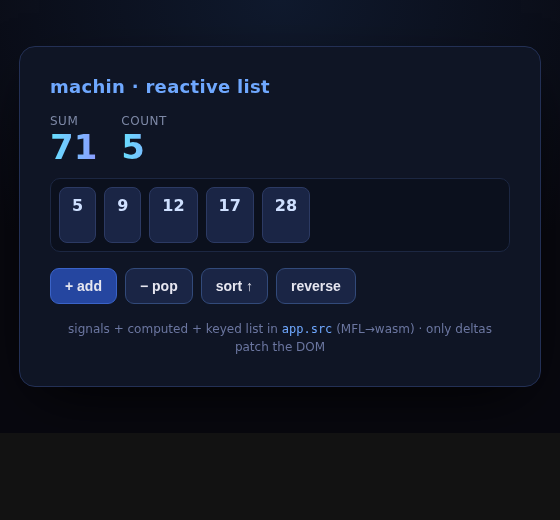
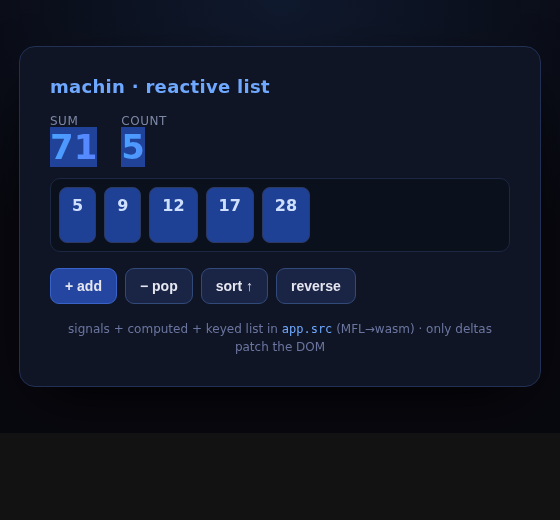
templating: the component generates its own markup (mount/slot/list)
Use the new reactive templating layer (v0.55.0): start() declares the
stats + list markup with slot()/list() and mounts it, so index.html is
just <div id=app> + buttons + host glue. The component owns markup, state,
and reactivity in one place. Same on-screen result, less hand-wiring.

Changed region(s): [[0.0911, 0.2462, 0.5768, 0.4923]]

diff --git a/index.html b/index.html
@@ -21,12 +21,12 @@
   .stat .v { font-size: 34px; font-weight: 800; line-height: 1;
     background: linear-gradient(90deg, #66e0ff, #8b9bff); -webkit-background-clip: text;
     background-clip: text; color: transparent; }
-  .items { list-style: none; margin: 0 0 16px; padding: 8px; min-height: 56px;
+  #items { list-style: none; margin: 0 0 16px; padding: 8px; min-height: 56px;
     display: flex; flex-wrap: wrap; gap: 8px; background: #0b101d;
     border: 1px solid #1c2742; border-radius: 10px; }
-  .items li { padding: 6px 12px; border-radius: 8px; background: #1a2545;
-    border: 1px solid #2c3a63; font-weight: 700; }
-  .items li b { color: #cfe0ff; font-weight: 800; }
+  #items li { padding: 6px 12px; border-radius: 8px; background: #1a2545;
+    border: 1px solid #2c3a63; font-weight: 700; list-style: none; }
+  #items li b { color: #cfe0ff; font-weight: 800; }
   .row { display: flex; gap: 8px; flex-wrap: wrap; }
   button { padding: 9px 14px; font-size: 14px; font-weight: 700; cursor: pointer;
     border-radius: 9px; border: 1px solid #324a7a; background: #1a2545; color: #e6e6f0; }
@@ -41,11 +41,8 @@
 <body>
   <main class="card">
     <h1>machin · reactive list</h1>
-    <div class="stats">
-      <div class="stat"><div class="k">sum</div><div class="v" data-s="sum">0</div></div>
-      <div class="stat"><div class="k">count</div><div class="v" data-s="count">0</div></div>
-    </div>
-    <ul id="items" class="items"></ul>
+    <!-- the component renders its own markup into #app via mount() -->
+    <div id="app"></div>
     <div class="row">
       <button id="add" class="primary">+ add</button>
       <button id="pop">− pop</button>
@@ -64,6 +61,8 @@
 
   const imports = {
     env: {
+      // mount → the component's initial HTML (set once)
+      dom_mount: (r, h) => { document.getElementById(cstr(r)).innerHTML = cstr(h); },
       // bind → set a text slot
       dom_patch: (s, v) => { const el = document.querySelector(`[data-s="${cstr(s)}"]`); if (el) { el.textContent = cstr(v); flash(el); } },
       // each → keyed list ops (the patch list): insert / remove / reorder

diff --git a/README.md b/README.md
@@ -17,14 +17,16 @@ replacement, no virtual-DOM diff. It's the Solid/Leptos model, in MFL.
   notifies if the value changed).
 - **`computed(func(){ return … })`** is a memoized derived signal — here, the sum
   of the list. It recomputes only when a signal it reads changes.
-- **`bind(slot, func(){ return str(…) })`** patches a DOM text slot on change.
-- **`each(container, keys, item)`** is **keyed list reconciliation**: `keys()`
-  returns the ordered keys as a CSV string, `item(key)` renders an item once. On a
-  change it emits only `list_insert` (new), `list_remove` (gone), and `list_order`
-  (reorder).
+- **`slot(name, compute)`** returns the markup for a reactive text node and wires
+  its binding; **`list(name, keys, item)`** does the same for a keyed list (`keys()`
+  returns the ordered keys as a CSV string, `item(key)` renders an item once).
+- **`mount(root, html)`** sets the root's HTML once, then activates the queued
+  bindings/lists. So the component declares its **markup and reactivity together**
+  — no hand-written HTML skeleton, no manual `data-s` wiring.
 
 Every reaction auto-tracks the signals it reads, so a change recomputes only the
-affected reactions, and only changed text/keys hit the DOM.
+affected reactions, and only changed text/keys hit the DOM. A keyed list emits only
+`list_insert` (new) / `list_remove` (gone) / `list_order` (reorder).
 
 ## What "fine-grained" buys you (verified)
 
@@ -40,6 +42,9 @@ Sorting a list of N items moves N DOM nodes and recomputes nothing else; the
 
 ## The component (`app.src`)
 
+The component declares its markup and reactive slots together, then mounts it —
+`index.html` is just `<div id="app"></div>`:
+
 ```go
 export func start() {
     ver = signal(0)
@@ -48,11 +53,12 @@ export func start() {
         while i < n { s = s + vals[i]  i = i + 1 }
         return s
     })
-    bind("sum",   func() { return str(get(sum_sig)) })
-    bind("count", func() { get(ver)  return str(n) })
-    each("items",                         // keyed list
-        func() { get(ver)  return csv(ids) },
-        func(id) { return "<b>" + str(val_of(id)) + "</b>" })
+    mount("app",
+        "<div class=stats>sum: " + slot("sum", func() { return str(get(sum_sig)) }) +
+        " · count: " + slot("count", func() { get(ver)  return str(n) }) + "</div>" +
+        list("items",                     // keyed list
+            func() { get(ver)  return csv(ids) },
+            func(id) { return "<b>" + str(val_of(id)) + "</b>" }))
 }
 ```
 
@@ -73,10 +79,10 @@ float-format symbols in the binary; they're imported but never called.
 
 ## What's next
 
-This is the reactive core (signals, computed, keyed lists). Beyond it: a
-templating helper so a component declares its slots without hand-written HTML, and
-reusing a server-rendered DOM on hydration. See the
-[web north star](https://github.com/javimosch/machin/blob/main/docs/NORTH-STAR-WEB.md).
+This has the reactive core *and* templating (signals, computed, keyed lists, and
+`mount`/`slot`/`list` so a component owns its markup). Beyond it: composing many
+such components into a real app, and reusing a server-rendered DOM on hydration.
+See the [web north star](https://github.com/javimosch/machin/blob/main/docs/NORTH-STAR-WEB.md).
 
 ## License
 